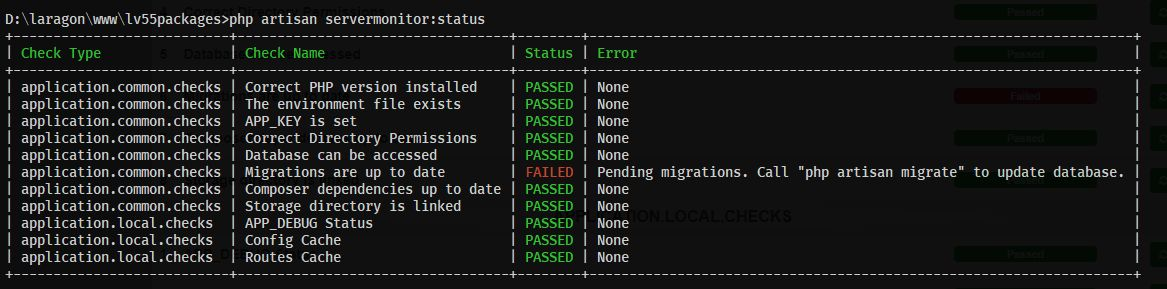
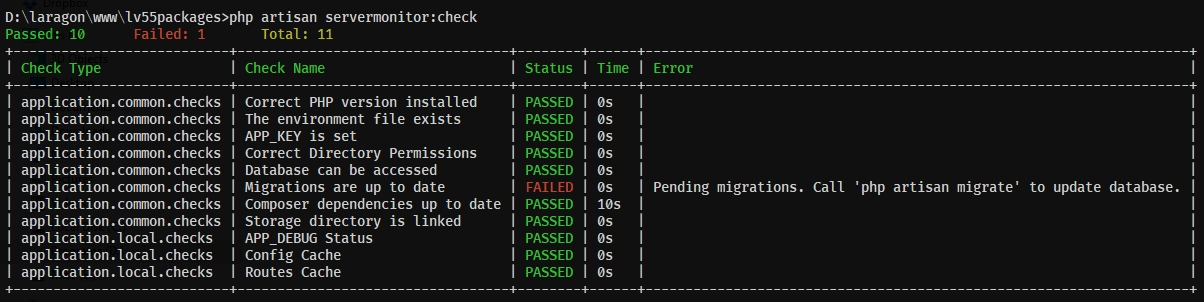
updated

Changed region(s): [[0.0, 0.2803, 1.0, 0.9654], [0.0, 0.0311, 1.0, 0.2491]]

diff --git a/src/Views/index.blade.php b/src/Views/index.blade.php
@@ -4,43 +4,60 @@
 
 @section('header')
     <button type="submit" id="btnRefresh" class="btn btn-warning btn-sm">
-        <i class="fa fa-refresh"></i> Run All Checks
+        <i class="fa fa-play"></i> Run All Checks
     </button>
 @endsection
 
 @section('content')
 
-    <div class="text-center">
-        <span class="badge-success badge" style="font-size: 12px;">Last Checked: {{$lastRun}}</span>
+    <div class="mx-auto" style="width: 80%; padding:0 12px;">
+        <div class="float-left">
+            <span class="badge-success badge" style="font-size: 12px;">
+            Passed: {{$checkResults['counts']['passed_checks_count']}}
+        </span>
+            <span class="badge-danger badge" style="font-size: 12px;">
+            Failed: {{$checkResults['counts']['failed_checks_count']}}
+        </span>
+            <span class="badge-primary badge" style="font-size: 12px;">
+            Total: {{$checkResults['counts']['total_checks_count']}}
+        </span>
+
+            @php unset($checkResults['counts']) @endphp
+        </div>
+        <div class="float-right">
+            <span class="badge-success badge" style="font-size: 12px;">Last Checked: {{$lastRun}}</span>
+        </div>
+        <div class="clearfix"></div>
     </div>
 
-    <table class="table mx-auto" cellspacing="0" style="font-size: 14px; color: #555; width: 80%;">
-        <thead>
-        <tr>
-            <th style="text-align: center;" width="1">#</th>
-            <th>Check Type</th>
-            <th>Check Name</th>
-            <th>Status</th>
-            <th style="text-align: center;" width="1">Run</th>
-        </tr>
-        </thead>
+    <div class="table-responsive-sm">
+        <table class="table table-hover table-bordered table-sm mx-auto" cellspacing="0" style="font-size: 14px; color: #555; width: 80%;">
+            <thead>
+            <tr>
+                <th style="text-align: center;" width="1">#</th>
+                <th>Check Type</th>
+                <th>Check Name</th>
+                <th>Status</th>
+                <th style="text-align: center;" width="1">Run</th>
+            </tr>
+            </thead>
 
-        <tbody>
-        @foreach($checkResults as $type => $checks)
-            @foreach($checks as $index => $check)
-                <tr>
-                    <td style="text-align: center; font-weight: bold;">{{++$index}}</td>
-                    <td>{{strtoupper($check['type'])}}</td>
-                    <td><strong>{{$check['name']}}</strong></td>
-                    @php
-                        $isOk = $check['status'] == 1;
-                        $text = $isOk ? 'Passed':'Failed';
-                        $icon = $isOk ? 'success' : 'danger';
-                        $popover = $isOk ? '' : 'tabindex="0" data-toggle="popover" data-trigger="focus" title="Error Details" data-content="' . $check['error'] . '"';
+            <tbody>
+            @foreach($checkResults as $type => $checks)
+                @foreach($checks as $index => $check)
+                    <tr>
+                        <td style="text-align: center; font-weight: bold;">{{++$index}}</td>
+                        <td>{{strtoupper($check['type'])}}</td>
+                        <td><strong>{{$check['name']}}</strong></td>
+                        @php
+                            $isOk = $check['status'] == 1;
+                            $text = $isOk ? 'Passed':'Failed';
+                            $icon = $isOk ? 'success' : 'danger';
+                            $popover = $isOk ? '' : 'tabindex="0" data-toggle="popover" data-trigger="focus" title="Error Details" data-content="' . $check['error'] . '"';
 
-                        echo "<td><span ' . $popover . ' class='col-sm-10 badge badge-$icon'>$text</span></td>";
-                    @endphp
-                    <td style="text-align: center;">
+                            echo "<td><span style='font-size: 14px;' ' . $popover . ' class='col-sm-12 badge badge-$icon'>$text</span></td>";
+                        @endphp
+                        <td style="text-align: center;">
                         <span
                                 class="btn btn-primary btn-sm refresh"
                                 data-checker="{{$check['checker']}}"
@@ -48,14 +65,15 @@
                                 data-placement="top"
                                 title="Run this check"
                                 style="font-size: 10px;">
-                            <i class="fa fa-refresh" style="font-size: 10px;"></i>
+                            <i class="fa fa-play" style="font-size: 10px;"></i>
                         </span>
-                    </td>
-                </tr>
+                        </td>
+                    </tr>
+                @endforeach
             @endforeach
-        @endforeach
-        </tbody>
-    </table>
+            </tbody>
+        </table>
+    </div>
 
     <div id="overlay">
         <div class="spinner"></div>

diff --git a/src/ServerMonitor.php b/src/ServerMonitor.php
@@ -62,9 +62,12 @@ class ServerMonitor
 
         $checksAll = $this->getCheckClasses();
 
+        $totalChecksCount = 0;
+        $passedChecksCount = 0;
         foreach ($checksAll as $type => $checks) {
             if ($checks) {
                 foreach ($checks as $check => $config) {
+                    $totalChecksCount++;
 
                     if (!is_array($config)) {
                         $check = $config;
@@ -73,16 +76,20 @@ class ServerMonitor
 
                     $sTime = microtime(true);
                     $object = app()->make($check);
-                    $result = $object->check($config);
+                    $status = $object->check($config);
                     $name = $object->name();
                     $error = $object->message();
                     $eTime = round(microtime(true) - $sTime, 2);
+
+                    if ($status) {
+                        $passedChecksCount++;
+                    }
 
                     $results[] = [
                         'type' => $type,
                         'checker' => $this->getClassName($check),
                         'name' => $name,
-                        'status' => $result,
+                        'status' => $status,
                         'error' => $error,
                         'time' => sprintf("%ds", $eTime),
                     ];
@@ -91,6 +98,12 @@ class ServerMonitor
         }
 
         $results = collect($results)->groupBy('type')->toArray();
+
+        $results['counts'] = [
+            'total_checks_count' => $totalChecksCount,
+            'passed_checks_count' => $passedChecksCount,
+            'failed_checks_count' => $totalChecksCount - $passedChecksCount,
+        ];
 
         @file_put_contents($this->cacheFile, serialize($results));
 
@@ -119,7 +132,7 @@ class ServerMonitor
                     if ($checkClass === $this->getClassName($check)) {
                         $sTime = microtime(true);
                         $object = app()->make($check);
-                        $result = $object->check($config);
+                        $status = $object->check($config);
                         $name = $object->name();
                         $error = $object->message();
                         $eTime = round(microtime(true) - $sTime, 2);
@@ -128,7 +141,7 @@ class ServerMonitor
                             'type' => $type,
                             'checker' => $check,
                             'name' => $name,
-                            'status' => $result,
+                            'status' => $status,
                             'error' => $error,
                             'time' => sprintf("%ds", $eTime),
                         ];

diff --git a/src/Console/BaseCommand.php b/src/Console/BaseCommand.php
@@ -22,6 +22,14 @@ abstract class BaseCommand extends Command
     {
         $data = [];
 
+        $this->info(
+            '<fg=green>Passed: ' . $results['counts']['passed_checks_count'] . "</fg=green>\t" .
+            '<fg=red>Failed: ' . $results['counts']['failed_checks_count'] . "</fg=red>\t" .
+            '<fg=yellow>Total: ' . $results['counts']['total_checks_count'] . '</fg=yellow>'
+        );
+
+        unset($results['counts']);
+
         foreach ($results as $type => $checks) {
             foreach ($checks as $check) {
                 $error = '';
